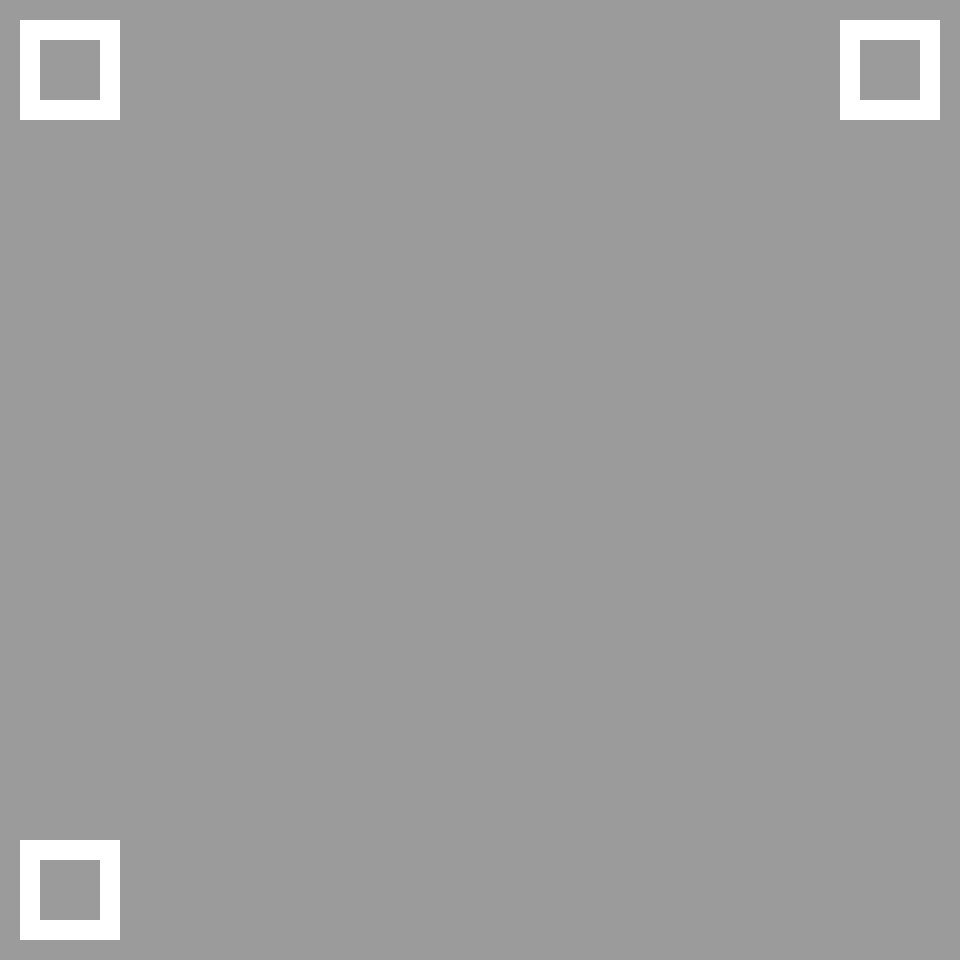
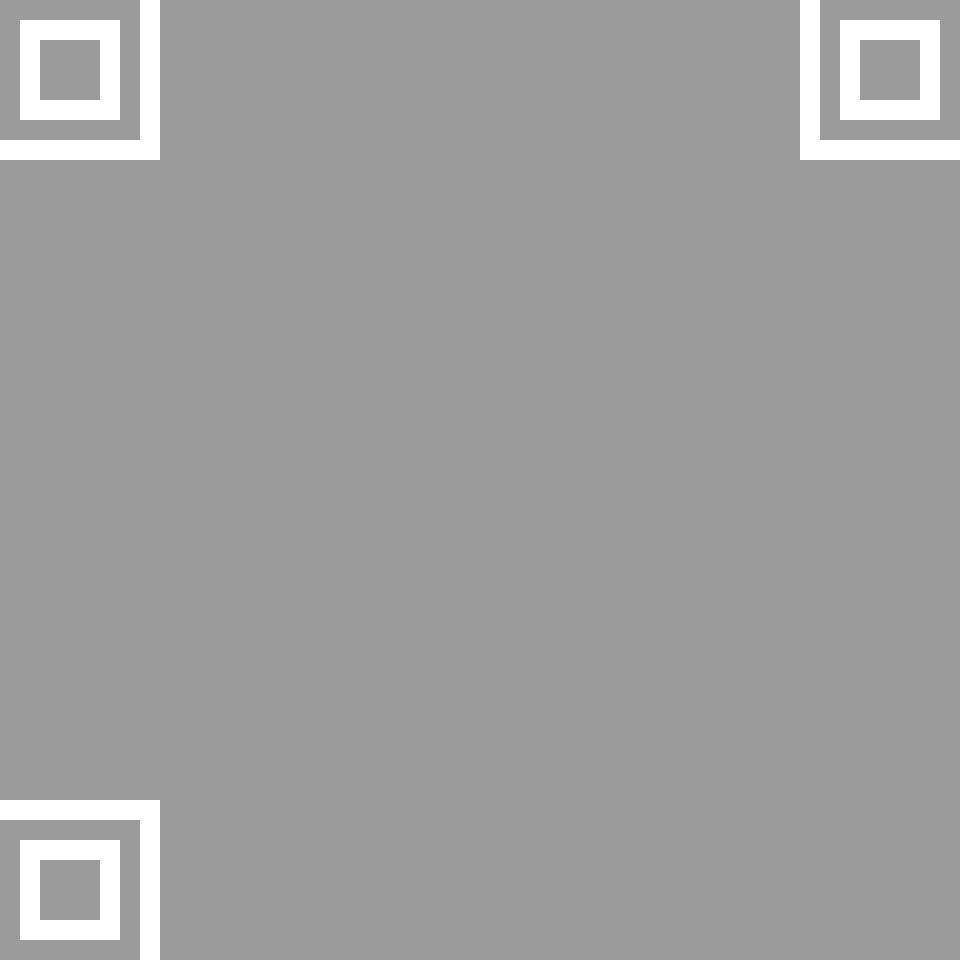
separator pattern fn

Changed region(s): [[0.7959, 0.0, 0.9796, 0.1837], [0.0, 0.7959, 0.1837, 0.9796], [0.0, 0.0, 0.1837, 0.1837]]

diff --git a/src/main.rs b/src/main.rs
@@ -92,6 +92,7 @@ fn args() -> QROptions {
         version: version,
         encoding: encoding,
         requires_alignment: version > 1,
+        size: (((version - 1) * 4) + 21),
         finder_points: [
             (0, 0),
             ((square_count(version) - 7) - 1, 0),
@@ -126,6 +127,12 @@ pub struct Cell {
 
 pub struct Point(usize, usize);
 
+impl Point {
+    pub fn idx(&self, size: usize) -> usize {
+        (self.0 * size) + self.1
+    }
+}
+
 struct QR {
     config: QROptions,
     body: Vec<Cell>
@@ -133,7 +140,10 @@ struct QR {
 
 impl QR {
     fn setup(&mut self) {
-        self.config.apply_finder_patterns(&mut self.body);
+        for alignment_point in self.config.finder_points.iter() {
+            self.config.apply_finder_patterns(&mut self.body, *alignment_point);
+            self.config.apply_separators(&mut self.body, *alignment_point);
+        }
     }
 }
 
@@ -155,54 +165,105 @@ impl QROptions {
         rows
     }
 
-    pub fn apply_finder_patterns(&self, body: &mut Vec<Cell>) {
-        let row_length = square_count(self.version) - 1;
-
-        for alignment_point in self.finder_points.iter() {
-            let (mut x, mut y) = *alignment_point;
-            let mut max = 6;
-            while max > 1 {
-                println!("I probably went too far! x: {}, y: {}, row length: {}, max: {}, size: {}", x, y, row_length, max, body.len());
-                let mut cell_steps = max * 4;
-                while cell_steps > 0 {
-                    let idx = (row_length * x) + y;
-                    let cell = body.get_mut(idx);
-                    println!("X: {}, Y: {}", x, y);
-                    match cell {
-                        Some(c) => {
-                            c.module_type = CellType::Finder;
-                            if max == 4 {
-                                c.color = Color { r: 255, g: 255, b: 255 }
-                            }
-                        },
-                        None => panic!("I probably went too far! x: {}, y: {}, row length: {}, max: {}, idx: {}, steps: {}", x * row_length, y, row_length, max, idx, cell_steps)
-                    }
-
-                    if cell_steps > 3 * max {
-                        y += 1;
-                    } else if cell_steps > 2 * max {
-                        x += 1;
-                    } else if cell_steps > max {
-                        y -= 1;
-                    } else {
-                        x -= 1;
-                    }
-
-                    cell_steps -= 1;
-
-                }
-                max -= 2;
-                x += 1;
-                y += 1;
+    pub fn apply_separators(&self, body: &mut Vec<Cell>, alignment_point: (usize, usize)) {
+        let row_len = self.size - 1;
+        let (mut x, mut y) = alignment_point;
+        // x == y Upper left
+        // x < y Upper Right
+        // x > y Lower Left
+        let mut start_x = 0;
+        let mut start_y = 0;
+        let mut end_x = 0;
+        let mut end_y = 0;
+        if x == y {
+            // upper left
+            start_x = 7;
+            end_y = 7;
+        } else if x > y {
+            // lower left
+            start_x = row_len - 8;
+            end_x = row_len;
+            end_y = 7;
+        } else {
+            // upper right
+            start_y = row_len - 8;
+            end_y = row_len;
+            end_x = 7;
+        }
+        x = start_x;
+        y = start_y;
+        loop {
+            let pt = Point(x, y);
+            let idx = pt.idx(self.size - 1);
+            match body.get_mut(idx) {
+                Some(c) => {
+                    c.module_type = CellType::Separator;
+                    c.color = Color { r: 255, g: 255, b: 255 };
+                },
+                None => panic!("dunno idx {} x: {} y: {}", idx, x, y)
             }
-            let cell = body.get_mut((x * row_length) + y);
-            match cell {
-                Some(c) => c.module_type = CellType::Finder,
-                None => {}
+
+            if start_x == end_y && y < end_y {
+                y += 1;
+            } else if end_y == y && x > end_x {
+                x -= 1;
+            } else if end_x > x && start_y > x {
+                x += 1;
+            } else if end_x == x && end_y - 1 > y {
+                y += 1;
+            } else if end_y > y && start_x > y {
+                y += 1;
+            } else if (end_x > 0 && end_x - 1 > x) && end_y == y {
+                x += 1;
+            } else {
+                break;
             }
         }
+    }
 
-        // don't forget to handle center point here
+    pub fn apply_finder_patterns(&self, body: &mut Vec<Cell>, alignment_point: (usize, usize)) {
+        let row_length = square_count(self.version) - 1;
+        let (mut x, mut y) = alignment_point;
+        let mut max = 6;
+        while max > 1 {
+            let mut cell_steps = max * 4;
+            while cell_steps > 0 {
+                let point = Point(x, y);
+                let idx = point.idx(self.size - 1);
+                let cell = body.get_mut(idx);
+                match cell {
+                    Some(c) => {
+                        c.module_type = CellType::Finder;
+                        // change to white
+                        if max == 4 {
+                            c.color = Color { r: 255, g: 255, b: 255 }
+                        }
+                    },
+                    None => panic!("I probably went too far! x: {}, y: {}, row length: {}, max: {}, idx: {}, size: {}", x * row_length, y, row_length, max, idx, self.size)
+                }
+
+                if cell_steps > 3 * max {
+                    y += 1;
+                } else if cell_steps > 2 * max {
+                    x += 1;
+                } else if cell_steps > max {
+                    y -= 1;
+                } else {
+                    x -= 1;
+                }
+
+                cell_steps -= 1;
+
+            }
+            max -= 2;
+            x += 1;
+            y += 1;
+        }
+        let cell = body.get_mut((x * row_length) + y);
+        match cell {
+            Some(c) => c.module_type = CellType::Finder,
+            None => {}
+        }
     }
 }
 

diff --git a/src/grid/qr_opts.rs b/src/grid/qr_opts.rs
@@ -23,7 +23,8 @@ pub struct QROptions {
     pub version: usize,
     pub encoding: u8, // for now - should be its own sub-type.
     pub requires_alignment: bool,
-    pub finder_points: [(usize, usize); 3]
+    pub finder_points: [(usize, usize); 3],
+    pub size: usize
 }
 
 /*
